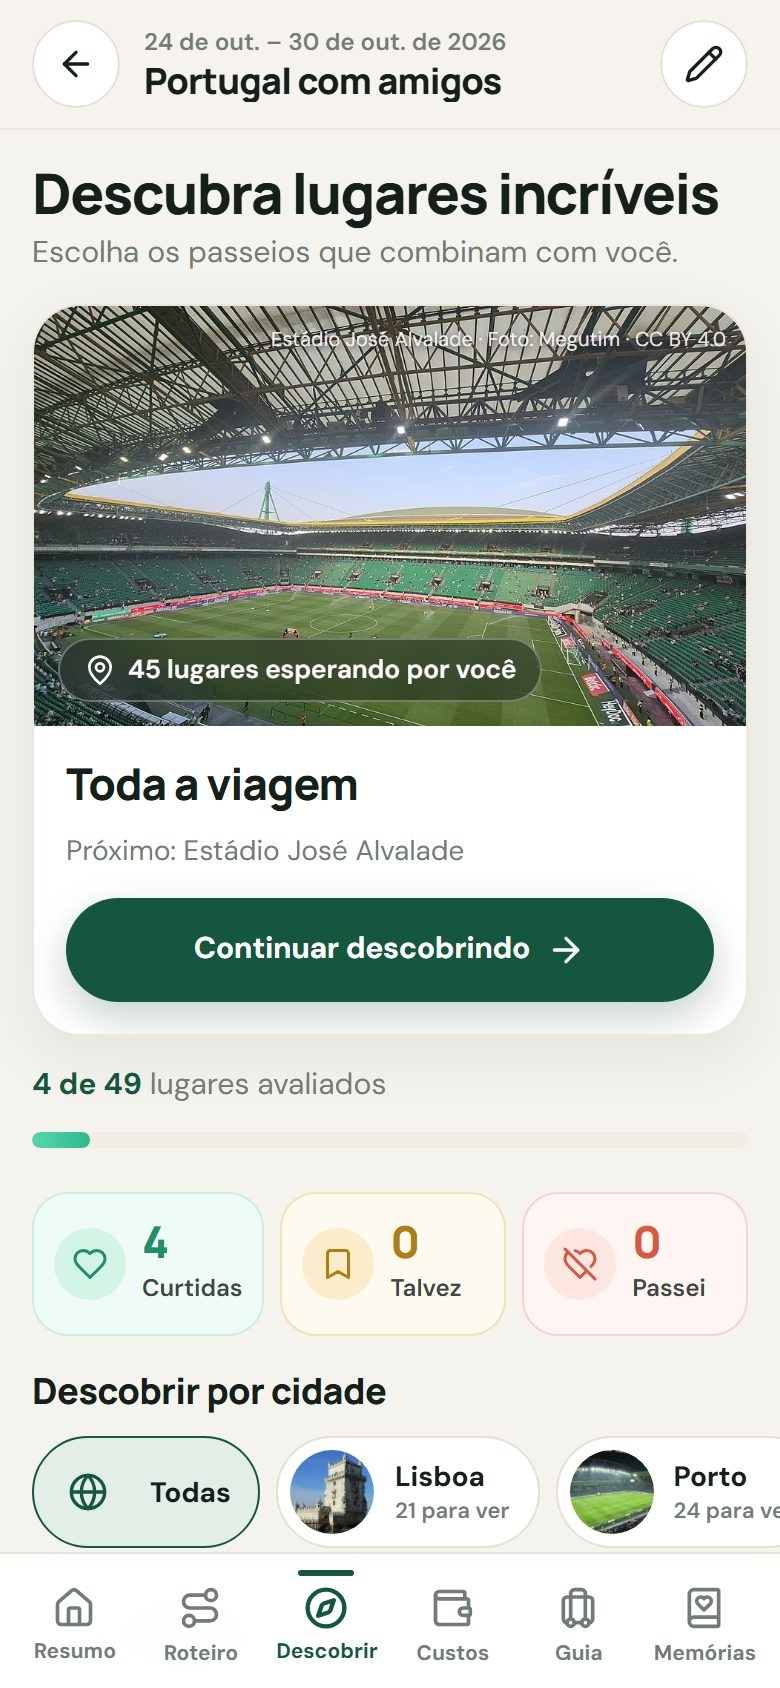
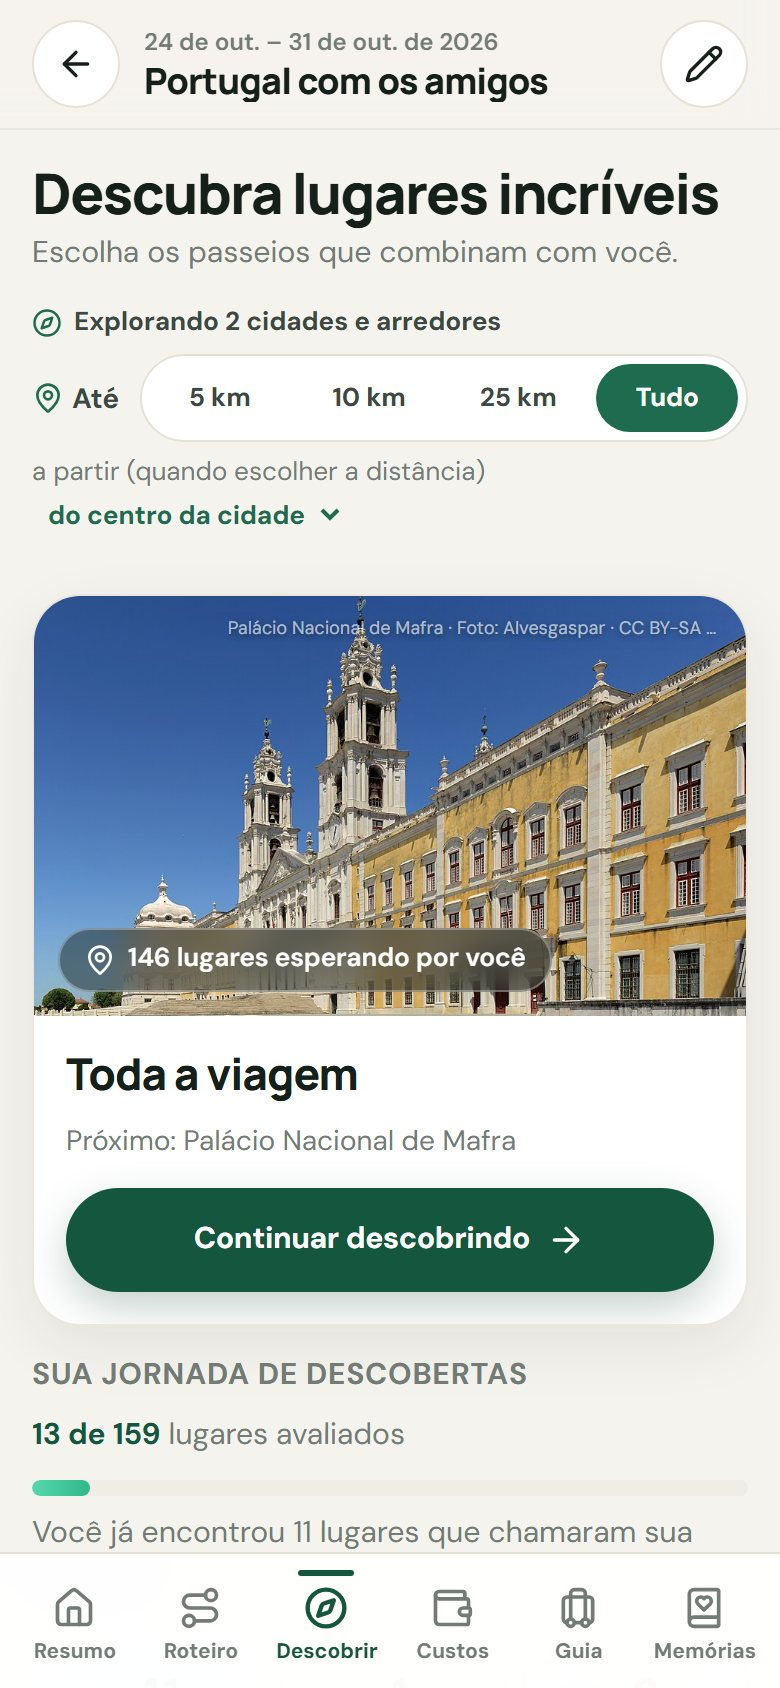
Site: acesso direto ao app, Instagram oficial e capturas novas (prévia)
- Botões levam direto ao app; o formulário da lista de espera saiu (inscritos continuam guardados).
- Seção de testadores com os passos para participar e "Quero testar o aplicativo".
- Instagram @viagemnamao.oficial no site, privacidade e termos.
- Capturas reais do app atual (Home, Descobrir, Roteiro, Custos, Guia, Baú) com viagem de exemplo.
- No celular, uma captura por vez no Descobrir e o Baú maior; prévia de compartilhamento revisada.

diff --git a/site/index.html b/site/index.html
@@ -4,10 +4,15 @@
     <meta charset="utf-8">
     <meta name="viewport" content="width=device-width, initial-scale=1, viewport-fit=cover">
     <title>Viagem na Mão — o mundo é grande, sua próxima história começa aqui</title>
-    <meta name="description" content="Planeje cada detalhe, descubra lugares incríveis, controle seus gastos e guarde as memórias que fazem cada viagem valer a pena. Buscamos até 50 viajantes para testar grátis.">
+    <meta name="description" content="Planeje cada detalhe, descubra lugares incríveis, controle seus gastos e guarde as memórias que fazem cada viagem valer a pena. O app já está no ar: experimente grátis e ajude a melhorar.">
     <meta name="theme-color" content="#15563F">
     <meta property="og:title" content="Viagem na Mão — sua próxima história começa aqui">
-    <meta property="og:description" content="Roteiro, gastos em qualquer moeda, guia do destino e um Baú de Memórias. Ajude a testar grátis.">
+    <meta property="og:description" content="Roteiro, gastos em qualquer moeda, lugares para descobrir e um Baú de Memórias. Experimente grátis no celular.">
+    <meta property="og:site_name" content="Viagem na Mão">
+    <meta property="og:locale" content="pt_BR">
+    <meta property="og:image:width" content="1200">
+    <meta property="og:image:height" content="630">
+    <meta name="twitter:card" content="summary_large_image">
     <meta property="og:type" content="website">
     <meta property="og:url" content="https://viagemnamao.com/">
     <meta property="og:image" content="https://viagemnamao.com/imagens/compartilhar.jpg">
@@ -30,7 +35,7 @@
         <a href="#recursos">Recursos</a>
         <a href="#como">Como funciona</a>
         <a href="#bau">Baú de Memórias</a>
-        <a href="#lista">Seja um testador</a>
+        <a href="#lista">Quero testar</a>
       </nav>
       <div class="topo-acoes">
         <a class="botao botao-pequeno" href="https://app.viagemnamao.com/" rel="noopener">Experimentar grátis</a>
@@ -53,13 +58,13 @@
             <p class="hero-sub">Planeje cada detalhe, descubra lugares incríveis, controle seus gastos e guarde as memórias que fazem cada viagem valer a pena.</p>
             <div class="hero-acoes">
               <a class="botao botao-coral" href="https://app.viagemnamao.com/" rel="noopener">Experimentar grátis <span aria-hidden="true">→</span></a>
-              <a class="botao botao-vidro" href="#lista">Quero ajudar a testar</a>
+              <a class="botao botao-vidro" href="#recursos">Ver como funciona</a>
             </div>
-            <a class="selo" href="#lista"><span class="selo-ponto" aria-hidden="true"></span><span><strong>Estamos construindo juntos!</strong> Buscamos cerca de 50 viajantes para testar gratuitamente. <u>Quero participar</u></span></a>
+            <a class="selo" href="#lista"><span class="selo-ponto" aria-hidden="true"></span><span><strong>Já dá para usar.</strong> Estamos aprimorando o app com cerca de 50 viajantes testadores. <u>Saiba mais</u></span></a>
             <p class="manuscrito hero-nota" aria-hidden="true">Mais destinos. Mais histórias.<br>Você por inteiro.</p>
           </div>
           <div class="hero-celular">
-            <figure class="celular"><img src="imagens/app-inicio.jpg" alt="Tela inicial do app Viagem na Mão com a viagem em andamento" width="390" height="844"></figure>
+            <figure class="celular"><img src="imagens/app-inicio.jpg" alt="Tela inicial do app com a reflexão do dia, o lembrete de memórias e a viagem em andamento" width="390" height="844"></figure>
             <div class="bilhete manuscrito" aria-hidden="true">Sonhe<br>planeje<br>viva<br>lembre<br>sempre <span class="coracao">♥</span></div>
           </div>
         </div>
@@ -83,12 +88,12 @@
         </div>
 
         <article class="recurso">
-          <figure class="celular"><img src="imagens/app-descobrir.jpg" alt="Tela Descobrir com o cartão de uma atração em Lisboa e os botões Passar, Talvez e Curtir" loading="lazy" width="390" height="844"></figure>
+          <figure class="celular"><img src="imagens/app-descobrir.jpg" alt="Tela Descobrir com o cartão do Palácio Nacional de Mafra, o progresso e os botões Passar, Talvez e Curtir" loading="lazy" width="390" height="844"></figure>
           <div class="recurso-texto">
             <span class="icone-redondo icone-menta" aria-hidden="true"><svg viewBox="0 0 24 24"><circle cx="12" cy="12" r="10"/><path d="m16.24 7.76-2.12 6.36-6.36 2.12 2.12-6.36 6.36-2.12z"/></svg></span>
             <h3>Descubra lugares que combinam com você.</h3>
             <p>Explore atrações, restaurantes e experiências do destino. Curta, deixe para depois ou passe para a próxima sugestão, deslizando o cartão.</p>
-            <ul class="lista-check"><li>250 cidades no Brasil e no mundo, com a distância que você escolher</li><li>Fotos reais com crédito dos autores</li><li>O que você curte vai direto para o roteiro</li></ul>
+            <ul class="lista-check"><li>330 cidades no Brasil e no mundo, com a distância que você escolher</li><li>Fotos reais com crédito dos autores</li><li>O que você curte vai direto para o roteiro</li></ul>
           </div>
         </article>
 
@@ -113,7 +118,7 @@
         </article>
 
         <article class="recurso recurso-invertido">
-          <figure class="celular"><img src="imagens/app-guia.jpg" alt="Guia da viagem com o clima de Lisboa e do Porto nas datas da viagem" loading="lazy" width="390" height="844"></figure>
+          <figure class="celular"><img src="imagens/app-guia.jpg" alt="Guia da viagem com o clima de Lisboa e o Na Hora do Aperto" loading="lazy" width="390" height="844"></figure>
           <div class="recurso-texto">
             <span class="icone-redondo icone-coral" aria-hidden="true"><svg viewBox="0 0 24 24"><circle cx="12" cy="12" r="10"/><path d="M2 12h20M12 2a15.3 15.3 0 0 1 4 10 15.3 15.3 0 0 1-4 10 15.3 15.3 0 0 1-4-10 15.3 15.3 0 0 1 4-10z"/></svg></span>
             <h3>Informações importantes sempre à mão.</h3>
@@ -149,7 +154,7 @@
             <ul class="lista-check lista-clara"><li>Curtir, talvez ou passar, no seu ritmo</li><li>Filtre por cidade da viagem</li><li>Mude de ideia quando quiser</li><li>Detalhes do lugar com links e mapa</li></ul>
           </div>
           <div class="dupla-celulares">
-            <figure class="celular"><img src="imagens/app-descobrir-aba.jpg" alt="Aba Descobrir com o progresso e as escolhas" loading="lazy" width="390" height="844"></figure>
+            <figure class="celular"><img src="imagens/app-descobrir-aba.jpg" alt="Aba Descobrir com a próxima sugestão e o progresso das escolhas" loading="lazy" width="390" height="844"></figure>
             <div class="celular-frente-caixa">
               <figure class="celular celular-frente"><img src="imagens/app-descobrir.jpg" alt="" loading="lazy" width="390" height="844"></figure>
               <div class="gesto" aria-hidden="true"><span class="gesto-passar">← Passar</span><span class="gesto-talvez">↓ Talvez</span><span class="gesto-curtir">Curtir →</span></div>
@@ -166,7 +171,8 @@
           <div class="bau-texto">
             <p class="sobretitulo">Meu Baú de Memórias</p>
             <h2 id="bau-titulo">Alguns momentos merecem ficar para sempre.</h2>
-            <p>Seu Baú de Memórias transforma pequenos registros em histórias que você vai querer revisitar.</p>
+            <p>Tem viagem que termina quando voltamos para casa. Mas as melhores histórias continuam com a gente.</p>
+            <p>No Baú, você guarda fotos e escreve sobre cada momento, dia a dia, para reviver a viagem quando quiser.</p>
             <ul class="lista-check">
               <li>Fotos e textos de cada dia, só seus</li>
               <li>Registre também os dias que já passaram</li>
@@ -182,7 +188,7 @@
             <figure class="polaroide p2"><img src="imagens/foto-bau-2.jpg" alt="" loading="lazy"><figcaption class="manuscrito"></figcaption></figure>
             <figure class="polaroide p3"><img src="imagens/foto-bau-3.jpg" alt="" loading="lazy"><figcaption class="manuscrito"></figcaption></figure>
             <div class="anotacao manuscrito">Dias que pareciam filme. Gente boa, comida inesquecível e o coração leve. Quero voltar sempre!</div>
-            <figure class="celular album-celular"><img src="imagens/app-retro.jpg" alt="" loading="lazy" width="390" height="844"></figure>
+            <figure class="celular album-celular"><img src="imagens/app-bau.jpg" alt="" loading="lazy" width="390" height="844"></figure>
           </div>
         </div>
       </section>
@@ -207,7 +213,7 @@
           <div class="convite-texto">
             <p class="sobretitulo sobretitulo-menta">Faça parte dessa história</p>
             <h2 id="lista-titulo">Ajude a construir o Viagem na Mão.</h2>
-            <p>Estamos buscando cerca de 50 viajantes para experimentar gratuitamente o aplicativo, conhecer suas funcionalidades e ajudar a melhorar a experiência de quem ama viajar.</p>
+            <p>Estamos buscando cerca de 50 viajantes que queiram experimentar o aplicativo gratuitamente, compartilhar suas experiências e contribuir para torná-lo cada vez melhor.</p>
             <ul class="beneficios">
               <li>Acesso gratuito durante a fase de testes</li>
               <li><strong>As 10 pessoas que mais contribuírem ganham acesso vitalício</strong> (<a href="termos.html#vitalicio">veja as regras</a>)</li>
@@ -215,17 +221,17 @@
               <li>Sugerir melhorias e ser ouvido</li>
               <li>Participar da evolução do produto</li>
             </ul>
-            <p class="convite-nota">Já quer testar? <a href="https://app.viagemnamao.com">Abra o app</a> e crie sua conta de testador com o seu e-mail. Prefere esperar? Deixe o e-mail ao lado e avisamos sobre as novidades.</p>
           </div>
-          <form id="form-lista" class="cartao-form" novalidate>
-            <h3>Quero participar dos testes</h3>
-            <label class="campo">Seu nome (opcional)<input name="nome" maxlength="80" autocomplete="given-name" placeholder="Como quer ser chamado"></label>
-            <label class="campo">Seu e-mail<input name="email" type="email" required maxlength="254" autocomplete="email" placeholder="voce@exemplo.com"></label>
-            <label class="armadilha" aria-hidden="true">Não preencha<input name="site" tabindex="-1" autocomplete="off"></label>
-            <label class="consentimento"><input name="consentimento" type="checkbox" required><span>Aceito receber e-mails do Viagem na Mão e li a <a href="privacidade.html">política de privacidade</a>. Posso sair da lista quando quiser.</span></label>
-            <button class="botao botao-coral" type="submit">Quero participar dos testes</button>
-            <p class="form-status" id="form-status" role="status" aria-live="polite"></p>
-          </form>
+          <div class="cartao-form cartao-teste">
+            <h3>Como participar</h3>
+            <ol class="passos-teste">
+              <li><strong>Abra o app</strong> no navegador do celular. Não precisa baixar nada.</li>
+              <li><strong>Crie sua conta</strong> com o seu e-mail: chega um código para entrar, sem senha.</li>
+              <li><strong>Use na sua viagem</strong> e conte o que achou pelo próprio app.</li>
+            </ol>
+            <a class="botao botao-coral" href="https://app.viagemnamao.com/" rel="noopener">Quero testar o aplicativo</a>
+            <p class="cartao-teste-nota">Grátis durante a fase de testes.</p>
+          </div>
         </div>
       </section>
 
@@ -249,7 +255,7 @@
             <li class="cartao-estudo"><span class="icone-estudo" aria-hidden="true"><svg viewBox="0 0 24 24"><path d="M7.9 20A9 9 0 1 0 4 16.1L2 22z"/><path d="M15.8 9.2a2.5 2.5 0 0 0-3.5 0l-.3.4-.35-.3a2.42 2.42 0 1 0-3.2 3.6l3.6 3.5 3.6-3.5c1.2-1.2 1.1-2.7.2-3.7"/></svg></span><span class="etiqueta etiqueta-estudo">Em estudo</span><h3>Quem Já Foi, Conta!</h3><p class="cartao-sub">Dicas reais de viajantes</p><p>Dicas, perrengues, formas de economizar e momentos que valeram a pena, compartilhados por quem já visitou o lugar.</p></li>
             <li class="cartao-estudo"><span class="icone-estudo" aria-hidden="true"><svg viewBox="0 0 24 24"><path d="M20 13c0 5-3.5 7.5-7.66 8.95a1 1 0 0 1-.67-.01C7.5 20.5 4 18 4 13V6a1 1 0 0 1 1-1c2 0 4.5-1.2 6.24-2.72a1.17 1.17 0 0 1 1.52 0C14.51 3.81 17 5 19 5a1 1 0 0 1 1 1z"/><path d="M12 9v6M9 12h6"/></svg></span><span class="etiqueta etiqueta-estudo">Em estudo</span><h3>Preciso de Ajuda</h3><p class="cartao-sub">Orientações e serviços de emergência</p><p>Encontre contatos oficiais de emergência e locais de assistência no destino.</p></li>
           </ul>
-          <p class="em-estudo-cta">Qual dessas novidades mais te ajudaria? Conta pra gente no <a href="https://www.instagram.com/viagemnamao.app/" rel="noopener" target="_blank">Instagram</a> ou por <a href="mailto:contato@viagemnamao.com?subject=Ideia%20para%20o%20Viagem%20na%20M%C3%A3o">e-mail</a>.</p>
+          <p class="em-estudo-cta">Qual dessas novidades mais te ajudaria? Conta pra gente no <a href="https://www.instagram.com/viagemnamao.oficial/" rel="noopener" target="_blank">Instagram</a> ou por <a href="mailto:contato@viagemnamao.com?subject=Ideia%20para%20o%20Viagem%20na%20M%C3%A3o">e-mail</a>.</p>
         </div>
       </section>
 
@@ -258,9 +264,9 @@
         <h2>A próxima história pode ser a sua.</h2>
         <p>O destino você escolhe. O Viagem na Mão ajuda a cuidar do caminho.</p>
         <div class="final-acoes">
-          <a class="botao botao-coral" href="https://app.viagemnamao.com/" rel="noopener">Experimentar grátis</a>
-          <a class="botao botao-claro" href="#lista">Quero participar dos testes</a>
+          <a class="botao botao-coral" href="https://app.viagemnamao.com/" rel="noopener">Experimentar grátis <span aria-hidden="true">→</span></a>
         </div>
+        <p class="final-nota">Já está no ar e é grátis durante a fase de testes.</p>
       </section>
     </main>
 
@@ -272,7 +278,7 @@
         </div>
         <nav aria-label="Links do rodapé">
           <a href="https://app.viagemnamao.com/" rel="noopener">Abrir o app</a>
-          <a class="link-ig" href="https://www.instagram.com/viagemnamao.app/" rel="noopener" target="_blank" aria-label="Instagram do Viagem na Mão, @viagemnamao.app"><svg class="ig" viewBox="0 0 24 24" aria-hidden="true"><rect x="2" y="2" width="20" height="20" rx="5"/><circle cx="12" cy="12" r="4.2"/><circle cx="17.6" cy="6.4" r="1.1" class="ig-ponto"/></svg>@viagemnamao.app</a>
+          <a class="link-ig" href="https://www.instagram.com/viagemnamao.oficial/" rel="noopener" target="_blank" aria-label="Instagram do Viagem na Mão, @viagemnamao.oficial"><svg class="ig" viewBox="0 0 24 24" aria-hidden="true"><rect x="2" y="2" width="20" height="20" rx="5"/><circle cx="12" cy="12" r="4.2"/><circle cx="17.6" cy="6.4" r="1.1" class="ig-ponto"/></svg>@viagemnamao.oficial</a>
           <a href="mailto:contato@viagemnamao.com">contato@viagemnamao.com</a>
           <a href="privacidade.html">Privacidade</a>
           <a href="termos.html">Termos de uso</a>

diff --git a/site/estilo.css b/site/estilo.css
@@ -195,7 +195,7 @@ main { overflow-x: clip; }
   .album-celular { width: 190px; top: 40px; }
 }
 @media (max-width: 520px) { .anotacao { display: none; } }
-@media (max-width: 420px) { .album { min-height: 470px; } .album-celular { width: 170px; } .p1, .p2, .p3 { width: 128px; padding: 8px 8px 32px; } }
+@media (max-width: 420px) { .album { min-height: 500px; } .album-celular { width: 220px; top: 30px; } .p1, .p2, .p3 { width: 124px; padding: 8px 8px 32px; } .p3 { bottom: 0; } }
 
 /* Como funciona */
 .passos { display: grid; grid-template-columns: repeat(3, 1fr); gap: 20px; margin: 0; padding: 0; list-style: none; }
@@ -219,13 +219,13 @@ main { overflow-x: clip; }
 .convite-nota { margin-top: 22px !important; font-size: 14px !important; color: rgba(255, 255, 255, 0.7) !important; }
 .cartao-form { display: grid; gap: 14px; padding: 32px 28px; border-radius: 30px; color: var(--tinta); background: var(--creme); box-shadow: var(--sombra); }
 .cartao-form h3 { font-size: 26px; text-align: center; }
-.campo { display: grid; gap: 6px; font-size: 14px; font-weight: 700; color: var(--tinta-2); }
-.campo input { min-height: 52px; padding: 0 16px; border: 1px solid var(--linha); border-radius: 14px; color: var(--tinta); background: #fff; font: 500 16px var(--fonte); }
-.armadilha { position: absolute; left: -9999px; }
-.consentimento { display: flex; align-items: flex-start; gap: 10px; color: var(--tinta-2); font-size: 14px; line-height: 1.45; }
-.consentimento input { width: 20px; height: 20px; flex: none; margin-top: 1px; accent-color: var(--verde); }
-.form-status { min-height: 22px; color: var(--verde); font-weight: 700; text-align: center; }
-.form-status.erro { color: #c0392b; }
+.cartao-teste { gap: 18px; }
+.passos-teste { display: grid; gap: 14px; margin: 0; padding: 0; list-style: none; counter-reset: passo; }
+.passos-teste li { position: relative; padding-left: 46px; color: var(--tinta-2); line-height: 1.45; counter-increment: passo; }
+.passos-teste li::before { content: counter(passo); position: absolute; top: -2px; left: 0; display: grid; width: 32px; height: 32px; place-items: center; border-radius: 50%; color: #fff; background: var(--verde); font: 700 15px var(--fonte); }
+.passos-teste strong { color: var(--tinta); }
+.cartao-teste .botao { width: 100%; }
+.cartao-teste-nota { color: var(--tinta-2); font-size: 14px; text-align: center; }
 @media (max-width: 900px) { .convite-grade { grid-template-columns: 1fr; gap: 36px; padding: 80px 20px; } .cartao-form { padding: 26px 20px; } }
 
 /* Novidades */
@@ -243,7 +243,7 @@ main { overflow-x: clip; }
 .final h2 { font-size: clamp(32px, 5vw, 50px); color: var(--verde); }
 .final p { margin: 14px auto 0; max-width: 520px; color: var(--tinta-2); font-size: 18px; }
 .final-acoes { display: flex; flex-wrap: wrap; justify-content: center; gap: 12px; margin-top: 28px; }
-.final .botao-claro { background: #fff; }
+.final-nota { margin-top: 14px !important; font-size: 15px !important; }
 @media (min-width: 1240px) { .final { max-width: var(--largura); margin-left: auto; margin-right: auto; } }
 
 /* Rodapé */
@@ -306,3 +306,10 @@ main { overflow-x: clip; }
 .convite-texto a { color: var(--menta); font-weight: 700; }
 /* Cartões centralizados quando sobram menos que uma linha cheia */
 @media (min-width: 861px) { .em-breve { grid-template-columns: repeat(auto-fit, minmax(260px, 340px)); justify-content: center; } }
+
+/* No celular, uma captura de cada vez e em tamanho legível. */
+@media (max-width: 600px) {
+  .dupla-celulares > .celular { display: none; }
+  .celular-frente-caixa { margin: 0; }
+  .dupla-celulares .celular-frente { width: min(270px, 74vw); }
+}

diff --git a/site/privacidade.html b/site/privacidade.html
@@ -19,12 +19,12 @@
     </header>
     <main class="texto">
       <h1>Política de privacidade</h1>
-      <p class="atualizado">Última atualização: 26 de outubro de 2026</p>
+      <p class="atualizado">Última atualização: 27 de outubro de 2026</p>
 
       <p>O Viagem na Mão é um projeto independente, em fase de testes, de um app para planejar viagens. Esta política explica, em linguagem simples, quais dados tratamos no site (viagemnamao.com) e no app, por quê e quais são os seus direitos pela Lei Geral de Proteção de Dados (LGPD, Lei 13.709/2018).</p>
 
       <h2>1. Lista de espera do site</h2>
-      <p>Se você entrar na lista de espera, guardamos:</p>
+      <p>O site não recebe mais inscrições na lista de espera: quem quer testar cria a conta direto no app. Para quem entrou na lista até 27 de outubro de 2026, guardamos:</p>
       <ul>
         <li>seu e-mail (obrigatório);</li>
         <li>seu nome, se você informar;</li>
@@ -54,13 +54,13 @@
       <p>Você pode, a qualquer momento: confirmar se tratamos seus dados, acessá-los, corrigi-los, pedir a exclusão, retirar o consentimento e sair da lista de espera (art. 18 da LGPD). Para isso, escreva para contato@viagemnamao.com. Você também pode reclamar à Autoridade Nacional de Proteção de Dados (ANPD).</p>
 
       <h2>5. Contato</h2>
-      <p>Para exercer seus direitos ou tirar dúvidas sobre seus dados, escreva para <a href="mailto:contato@viagemnamao.com">contato@viagemnamao.com</a>. Também atendemos pelo Instagram <a href="https://www.instagram.com/viagemnamao.app/" rel="noopener" target="_blank">@viagemnamao.app</a>.</p>
+      <p>Para exercer seus direitos ou tirar dúvidas sobre seus dados, escreva para <a href="mailto:contato@viagemnamao.com">contato@viagemnamao.com</a>. Também atendemos pelo Instagram <a href="https://www.instagram.com/viagemnamao.oficial/" rel="noopener" target="_blank">@viagemnamao.oficial</a>.</p>
 
       <h2>6. Mudanças nesta política</h2>
       <p>Quando o app ganhar viagem compartilhada ou recursos pagos, esta política será atualizada antes, com a data acima alterada. Mudanças importantes serão avisadas por e-mail a quem estiver na lista.</p>
     </main>
     <footer class="rodape">
-      <nav aria-label="Links do rodapé"><a href="/">Início</a><a href="termos.html">Termos de uso</a><a href="https://www.instagram.com/viagemnamao.app/" rel="noopener" target="_blank">Instagram</a></nav>
+      <nav aria-label="Links do rodapé"><a href="/">Início</a><a href="termos.html">Termos de uso</a><a href="https://www.instagram.com/viagemnamao.oficial/" rel="noopener" target="_blank">Instagram</a></nav>
     </footer>
   </body>
 </html>

diff --git a/site/site.js b/site/site.js
@@ -1,44 +1,5 @@
-// Lista de espera: o e-mail vai para a função da Vercel (/api/lista-espera),
-// que grava no Supabase. Nenhuma chave fica no navegador.
-const form = document.querySelector("#form-lista");
-const statusText = document.querySelector("#form-status");
-
-function setStatus(text, isError = false) {
-  statusText.textContent = text;
-  statusText.classList.toggle("erro", isError);
-}
-
-form?.addEventListener("submit", async (event) => {
-  event.preventDefault();
-  const data = Object.fromEntries(new FormData(form));
-  const email = String(data.email || "").trim();
-  if (!/^[^\s@]+@[^\s@]+\.[^\s@]{2,}$/.test(email)) {
-    setStatus("Confira o e-mail digitado.", true);
-    form.email.focus();
-    return;
-  }
-  if (!form.consentimento.checked) {
-    setStatus("Para entrar na lista, marque que aceita receber e-mails.", true);
-    return;
-  }
-  const button = form.querySelector("button[type=submit]");
-  button.disabled = true;
-  setStatus("Enviando…");
-  try {
-    const response = await fetch("/api/lista-espera", {
-      method: "POST",
-      headers: { "Content-Type": "application/json" },
-      body: JSON.stringify({ email, nome: String(data.nome || "").trim(), consentimento: true, site: data.site || "", origem: new URLSearchParams(location.search).get("utm_source") || "site" })
-    });
-    if (!response.ok) throw new Error(String(response.status));
-    form.reset();
-    setStatus("Pronto! Você está na lista. Até breve 💚");
-  } catch (error) {
-    setStatus("Não consegui enviar agora. Tente de novo em instantes.", true);
-  } finally {
-    button.disabled = false;
-  }
-});
+// O formulário da lista de espera saiu do site: quem quer testar cria a conta no próprio app.
+// Os inscritos continuam guardados no Supabase (tabela da lista de espera), e /api/lista-espera segue no ar.
 
 // Menu no celular.
 const menu = document.querySelector("#menu");

diff --git a/site/termos.html b/site/termos.html
@@ -46,10 +46,10 @@
       <p>Não use o site ou o app para atividades ilegais nem tente prejudicar seu funcionamento. Ao compartilhar memórias, álbuns ou vídeos, você é responsável pelo conteúdo e pelas fotos de outras pessoas que aparecerem neles.</p>
 
       <h2>6. Contato</h2>
-      <p>Dúvidas, sugestões e problemas: <a href="mailto:suporte@viagemnamao.com">suporte@viagemnamao.com</a> ou Instagram <a href="https://www.instagram.com/viagemnamao.app/" rel="noopener" target="_blank">@viagemnamao.app</a>. Veja também a <a href="privacidade.html">política de privacidade</a>.</p>
+      <p>Dúvidas, sugestões e problemas: <a href="mailto:suporte@viagemnamao.com">suporte@viagemnamao.com</a> ou Instagram <a href="https://www.instagram.com/viagemnamao.oficial/" rel="noopener" target="_blank">@viagemnamao.oficial</a>. Veja também a <a href="privacidade.html">política de privacidade</a>.</p>
     </main>
     <footer class="rodape">
-      <nav aria-label="Links do rodapé"><a href="/">Início</a><a href="privacidade.html">Privacidade</a><a href="https://www.instagram.com/viagemnamao.app/" rel="noopener" target="_blank">Instagram</a></nav>
+      <nav aria-label="Links do rodapé"><a href="/">Início</a><a href="privacidade.html">Privacidade</a><a href="https://www.instagram.com/viagemnamao.oficial/" rel="noopener" target="_blank">Instagram</a></nav>
     </footer>
   </body>
 </html>
